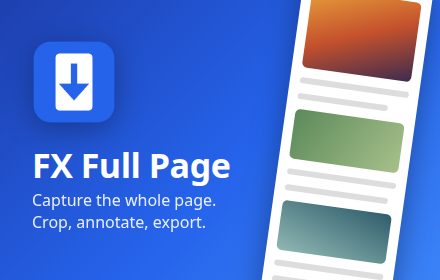
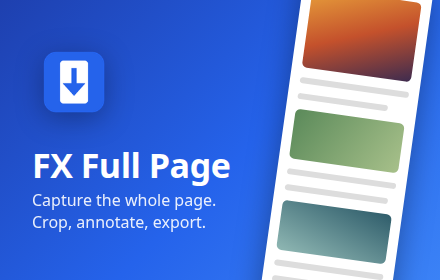
Add French localized screenshots and 1400x560 marquee tile

Changed region(s): [[0.0591, 0.1429, 0.2659, 0.4571]]

diff --git a/store/LISTING.md b/store/LISTING.md
@@ -71,6 +71,8 @@ Tick all three certifications:
 ---
 
 ## Images (`store/` folder)
-- `icon-128.png` – store icon (128×128)
-- `screenshot-1.png` … `screenshot-3.png` – screenshots (1280×800)
-- `promo-small.png` – small promo tile (440×280)
+- `icon-128.png` – store icon (128×128, artwork 96×96 with 16 px transparent padding)
+- `screenshot-1.png` … `screenshot-3.png` – international (English) screenshots, 1280×800
+- `screenshot-1-fr.png` … `screenshot-3-fr.png` – localized French screenshots, 1280×800
+- `promo-small.png` – small promo tile, 440×280
+- `marquee.png` – marquee promo tile, 1400×560
